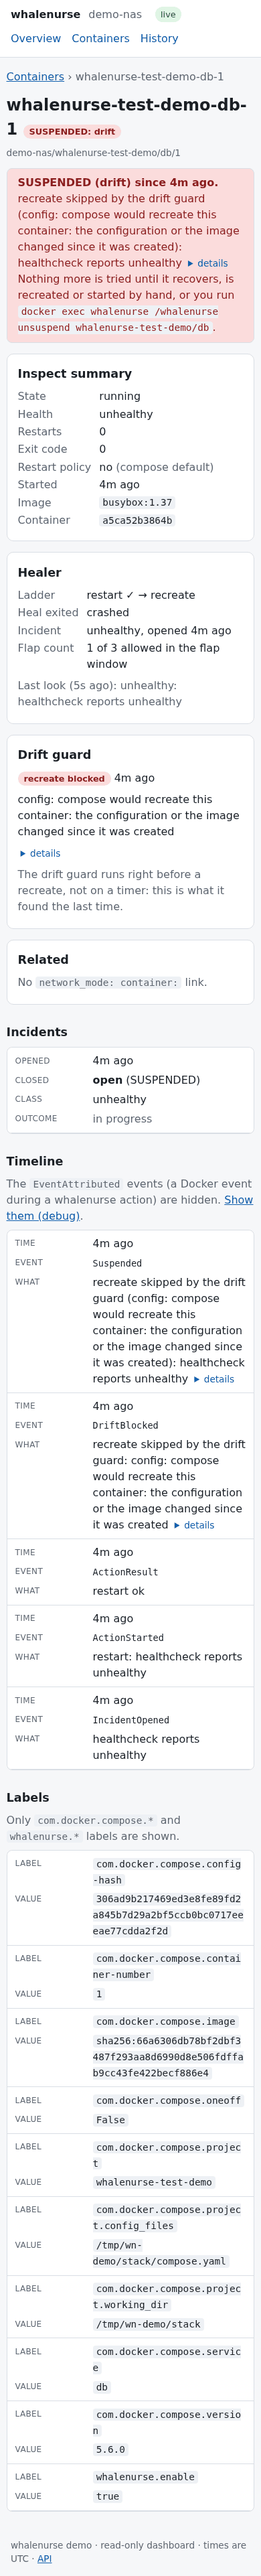
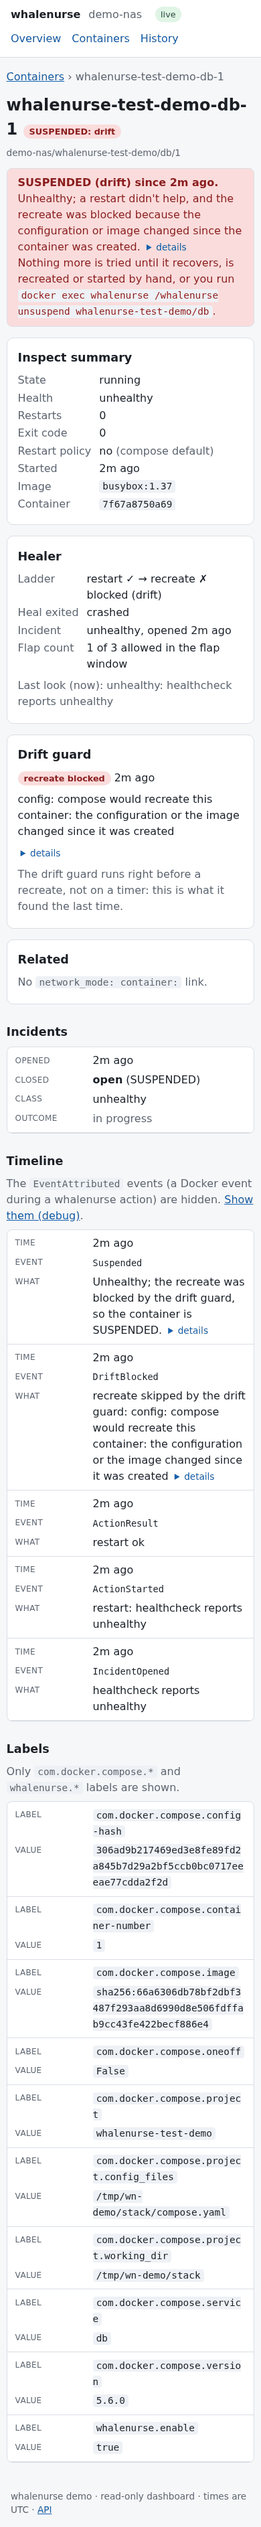
M5 final review round: retake overview, containers, detail-suspended, detail-upgraded and history screenshots; plan v3.9 item 18, CLAUDE.md, m5-notes.md, screenshots README

diff --git a/docs/PLAN.md b/docs/PLAN.md
@@ -1,6 +1,6 @@
 # whalenurse — implementation plan v3.9
 
-Status: **v3.9, approved by the maintainer on 19 Oct 2026** (the M5 review: it is v3.8 plus the M5 decisions below, [m5-notes.md](m5-notes.md), with the maintainer's six answers in items 11 to 16 and the screenshot review's fixes in item 17). v3.8 was approved by the maintainer on 19 Oct 2026 (the M4 review: it is v3.7 plus the M4 findings and decisions below, [m4-notes.md](m4-notes.md), with the maintainer's answers in items 11 to 15). v3.7 was approved by the maintainer on 19 Oct 2026 (the M3 review: it is v3.6 plus the M3 decisions below, [m3-notes.md](m3-notes.md), with the maintainer's four answers, items 13 to 15). v3.6 was approved by the maintainer on 18 Oct 2026 (the M2b review, including item 3 and the decisions of items 9 to 12): v3.5 plus the M2b findings ([m2b-notes.md](m2b-notes.md)); v3.5 was v3.4 plus three M2a verdicts below (the `last_seen` heartbeat, the stricter crash-loop rule, and the shutdown-window rule for containers stopped by the host), which the maintainer approved on 17 Oct 2026. v3.4 was v3.3 plus a split of milestone M2 into M2a and M2b. v3.3 was v3.2 plus the M0b verdicts ([m0b-findings.md](m0b-findings.md) §4), which the maintainer approved on 17 Oct 2026. v3.2 was v3.1 plus the two M1 verdicts ([m1-notes.md](m1-notes.md) decisions 2 and 11), and v3.1 was v3 plus the M0 verdicts ([m0-findings.md](m0-findings.md) §4). Supersedes v3.8. Facts and versions are as of 18 Oct 2026 (16 Oct for the prior-art survey).
+Status: **v3.9, approved by the maintainer on 19 Oct 2026** (the M5 review: it is v3.8 plus the M5 decisions below, [m5-notes.md](m5-notes.md), with the maintainer's six answers in items 11 to 16 and the screenshot review's fixes in items 17 and 18). v3.8 was approved by the maintainer on 19 Oct 2026 (the M4 review: it is v3.7 plus the M4 findings and decisions below, [m4-notes.md](m4-notes.md), with the maintainer's answers in items 11 to 15). v3.7 was approved by the maintainer on 19 Oct 2026 (the M3 review: it is v3.6 plus the M3 decisions below, [m3-notes.md](m3-notes.md), with the maintainer's four answers, items 13 to 15). v3.6 was approved by the maintainer on 18 Oct 2026 (the M2b review, including item 3 and the decisions of items 9 to 12): v3.5 plus the M2b findings ([m2b-notes.md](m2b-notes.md)); v3.5 was v3.4 plus three M2a verdicts below (the `last_seen` heartbeat, the stricter crash-loop rule, and the shutdown-window rule for containers stopped by the host), which the maintainer approved on 17 Oct 2026. v3.4 was v3.3 plus a split of milestone M2 into M2a and M2b. v3.3 was v3.2 plus the M0b verdicts ([m0b-findings.md](m0b-findings.md) §4), which the maintainer approved on 17 Oct 2026. v3.2 was v3.1 plus the two M1 verdicts ([m1-notes.md](m1-notes.md) decisions 2 and 11), and v3.1 was v3 plus the M0 verdicts ([m0-findings.md](m0-findings.md) §4). Supersedes v3.8. Facts and versions are as of 18 Oct 2026 (16 Oct for the prior-art survey).
 Repo: `github.com/jackspiering/whalenurse` (Go module path, GHCR image and binary are all lowercase).
 
 **Changes in v3.9** (from building M5; items 11 to 16 are the maintainer's decisions on its review; evidence, deviations and open questions in [m5-notes.md](m5-notes.md)):
@@ -22,6 +22,8 @@ Repo: `github.com/jackspiering/whalenurse` (Go module path, GHCR image and binar
 16. §3.11 (maintainer decision): **a skipped rung has its own marker.** The engine counts a rung it cannot run (version gate, no compose inputs, a `pull_policy` that forbids the pull) as passed, so the page drew `✓`. The `RungUnavailable` events of the open incident (matched by the `incident` attribute) now give `healer.skipped_rungs` (`rung`, `reason`) in the API, and the pages say "recreate skipped – not available" and "1 of 3 rungs run, 1 skipped (not available)" instead of a tick.
 
 17. §3.11 (maintainer decisions after the screenshot review; evidence in [m5-notes.md](m5-notes.md) and `docs/screenshots/`): **dashboard fixes, no change to the API's contract except two optional fields.** (a) Tables become **cards up to 900 px** (was 640: a table of seven columns needs about 790 px) with each label and its value on one line, and every table sits in its own horizontally scrolling container as a safety net: no page-wide scroll at any width from 320 to 1440. (b) **A pause row links to the containers under its scope** (`/containers?scope=<project[/service]>`), and an event or incident of a container that is gone is plain text: no link leads to a 404. (c) **`EventAttributed` is hidden** in "Latest events", the timelines and History; History has a "Debug (everything)" filter and the detail page a "show them (debug)" link; `?debug=1` shows them. The JSON API still carries every event (a hub follows the cursor); `EventsQuery.HideNoise` and `engine.EventQuery.ExcludeTypes` do it, so the hidden events do not use up the 100 timeline slots. (d) **The final container name**: compose's temporary `<12 hex>_<name>` is stripped wherever a name is shown (API and pages). (e) The Time column does not wrap. (f) **Expiries read "2m left (until 14:32)"** (UTC; another day carries its date; a passed one says "ended 3m ago"). (g) Detail page: "Finished" only for a container that is not running; "Restart policy: no (compose default)"; empty labels are not shown (the JSON keeps them); no Container column in a container's own timeline and incidents; **the parent's and each dependent's state as a badge** under "Related" (new optional fields `state`, `health`, `healer_state` of `RelationDoc`). (h) Rollback: **one command per `<pre>`**, no wrapping (`white-space: pre`, `overflow-x: auto`), **a Copy button per command**, wired by `app.js` (delegated click, `navigator.clipboard` in a secure context, a hidden textarea and `execCommand` otherwise); the buttons exist only with JavaScript; the CSP is unchanged. (i) **The drift finding in plain language** ("compose would recreate this container: the configuration or the image changed since it was created"), compose's own words ("Recreate, Recreated, Starting, Started") under a "details" element, for every event text, the SUSPENDED banner and the drift card. Not changed, by design: host paths in the compose labels (they are `com.docker.compose.*` labels, §3.9) and in the rollback commands.
+
+18. §3.11 (maintainer decisions, the last round of the screenshot review; fixes only): (a) **the Copy button sits beside the code block**, not on top of it (`.cmd` is a flex row: the `<pre>` scrolls, the button stays), so a long command is never covered. (b) **A drift-blocked SUSPENDED reads in plain language**: "Unhealthy; a restart didn't help, and the recreate was blocked because the configuration or image changed since the container was created." in the banner (the restart clause only when a restart ran), the original text under "details"; the `Suspended` row of a timeline, History and the overview is shortened to "Unhealthy; the recreate was blocked by the drift guard, so the container is SUSPENDED." because the `DriftBlocked` row beside it carries the explanation (also in plain words). A finding that is a moved tag says "the image tag moved since the container was created"; one that cannot be verified is shown as it is. (c) **The ladder marks a blocked rung**: "restart ✓ → recreate ✗ blocked (drift)" (the first rung that did not run, when the container is SUSPENDED for drift), and the list says "recreate blocked (drift)". (d) The "Last upgrade during heal" card no longer repeats the raw "…; recreated" line under its badge line (the timeline row keeps it). (e) **A Paused event reads "paused p/web for 2h, until 19:05"** (the Go duration and the ISO time are rewritten; a pause that ends on another day carries its date). (f) **Cards (up to 900 px) leave out the fields that say "none"** (health, incident, cooldown); the table keeps them. All of it is in `internal/web`; the API's documents and events are unchanged.
 
 **Changes in v3.8** (from building M4; evidence and open questions in [m4-notes.md](m4-notes.md)):
 1. §3.7, **`compose pull --policy always <svc>`**, not a bare `pull <svc>`. Upstream check (compose v5.2.0, v5.6.0 and main, `pkg/compose/pull.go`, `cmd/compose/pull.go`): `compose pull` skips an image whose `pull_policy` is `never` or `build` in every release, and `missing`/`if_not_present` when the image is already present (v5.2.0 for every tag; v5.6.0 and later only refresh `latest` and a service with no policy). A skipped pull leaves the digest unchanged and the rung would say "no newer image" for an image it never looked up. `--policy always` (present in v5.2.0 and v5.6.0) overrides the service's policy for the project, so it replaces `missing`, `if_not_present`, the refresh windows and no policy at all; **`never` and `build` are respected, not overridden** (item 14). Nothing else is added (no `--include-deps`): one service. Compose's `up` stays `--pull never --no-build`.

diff --git a/docs/screenshots/README.md b/docs/screenshots/README.md
@@ -1,6 +1,6 @@
 # Dashboard screenshots (M5)
 
-Retaken on 19 Oct 2026 (after the review fixes) from the branch `t3/m5-dashboard`, against a real demo stack (compose project `whalenurse-test-demo`, busybox containers only) managed by a real `whalenurse run` with the dashboard on `127.0.0.1` behind a token. Headless Chromium through Playwright, full page, device scale 1, HTTP Basic with the token as the password (the way a browser sends it). The host is called `demo-nas`; the paths are the demo stack's. Nothing here is personal data. Each image exists as `-light` and `-dark` (`prefers-color-scheme`), at `desktop` (1440×900 viewport) and `phone` (390×844, touch, mobile); the three pages that matter most (`overview`, `containers`, `detail-upgraded`) also at `tablet` (768×1024), because the tables turn into cards up to 900 px.
+Retaken on 19 Oct 2026 (after the last review fixes; `detail-sidecar-*` is from the round before, it shows none of the changed texts) from the branch `t3/m5-dashboard`, against a real demo stack (compose project `whalenurse-test-demo`, busybox containers only) managed by a real `whalenurse run` with the dashboard on `127.0.0.1` behind a token. Headless Chromium through Playwright, full page, device scale 1, HTTP Basic with the token as the password (the way a browser sends it). The host is called `demo-nas`; the paths are the demo stack's. Nothing here is personal data. Each image exists as `-light` and `-dark` (`prefers-color-scheme`), at `desktop` (1440×900 viewport) and `phone` (390×844, touch, mobile); the three pages that matter most (`overview`, `containers`, `detail-upgraded`) also at `tablet` (768×1024), because the tables turn into cards up to 900 px.
 
 The demo state, as the pages show it (names are `whalenurse-test-demo-<service>-1`):
 
@@ -16,11 +16,11 @@ The demo state, as the pages show it (names are `whalenurse-test-demo-<service>-
 | File prefix | What it shows |
 |---|---|
 | `overview-*` | healer status, compose binary and version, the version gate, action budget, container counts, the pause with its expiry, "Needs attention" (`api`, `cache`, `db`) and the latest events |
-| `containers-*` | the watched containers with state, health, healer badges (Incident, PAUSED with "1h 57m left (until 19:05)", SUSPENDED: drift, ok), incident and rung progress, cooldown and flap count. Up to 900 px the table becomes cards with a label and its value on one line |
-| `detail-suspended-*` | `db`: the SUSPENDED banner with the cause and the `unsuspend` command, inspect summary, healer, the drift guard's verdict (blocked, in plain words, the compose output under "details"), incidents, timeline, labels |
+| `containers-*` | the watched containers with state, health, healer badges (Incident, PAUSED with "1h 57m left (until 19:05)", SUSPENDED: drift, ok), incident and rung progress, cooldown and flap count. Up to 900 px the table becomes cards with a label and its value on one line, without the fields that say "none" |
+| `detail-suspended-*` | `db`: the SUSPENDED banner with the cause and the `unsuspend` command, inspect summary, healer, the plain-language SUSPENDED sentence (the raw text under "details"), the ladder with the blocked rung (`recreate ✗ blocked (drift)`), the drift guard's verdict, incidents, a short `Suspended` row next to the `DriftBlocked` row, labels |
 | `detail-sidecar-*` | `app-sidecar`: the parent under "Related", with a badge for its state |
-| `detail-upgraded-*` | `worker`: "Last upgrade during heal" with the old and new image and the two rollback commands (one per line, a Copy button each), the closed incident, the timeline |
-| `history-*` | incidents (two open, one recovered) and the event list with its filter chips |
+| `detail-upgraded-*` | `worker`: "Last upgrade during heal" with the old and new image and the two rollback commands (one per line, the Copy button beside each, never over the text), the closed incident, the timeline |
+| `history-*` | incidents (two open, one recovered) and the event list with its filter chips; the pause reads "for 2h, until 19:05" |
 | `*-tablet-*` | the same pages at 768 px: cards, no horizontal scroll |
 
 Also checked with the same demo state, headless Chromium, light: 27 widths from 320 to 1440 px (including 640/641 and 899/900/901) on 9 pages, none with a page-wide horizontal scroll or an element outside the viewport; every internal link of 27 pages returns 200; the two Copy buttons put exactly the command in the clipboard and do not exist without JavaScript; no console errors or CSP violations; lowest text contrast 5.2:1 (light) and 6.1:1 (dark); no token, user name or `/home` path in any page.

diff --git a/CLAUDE.md b/CLAUDE.md
@@ -135,7 +135,7 @@ Cross-cutting design points that span several packages:
   - **Skipped rungs**: `healer.skipped_rungs` comes from the open incident's `RungUnavailable` events (`incident` attribute); the pages say "skipped – not available", never a tick.
   - Headers on every response: the CSP of `api.CSP` (no inline script or style, no form: filters on the history page are links), `X-Frame-Options: DENY`, `nosniff`, `Referrer-Policy: no-referrer`. Templates must not use `style=`, `on*=` or inline `<script>`; a test greps every page.
   - `internal/web` imports `internal/api` only (a test checks) and renders `api.Service` documents. The detail page's drift status is the guard's **last verdict** from the event log, not a live check.
-  - **Page rules** (plan v3.9 item 17; tests in `internal/web` and `internal/daemon/dashboard_test.go`): a link only where its page exists (`eventRows`/`incidentRows` get the set of known container keys; a Paused/Resumed row links to `/containers?scope=`; `TestEveryLinkOnEveryPageWorks` crawls every link and fails on a non-200); `api.NoiseTypes` (`EventAttributed`) are hidden by `EventsQuery.HideNoise` / `ContainerOpts(key, debug=false)`, never in the JSON API; `finalName` strips compose's `<12 hex>_` prefix in `EventDoc` and `clean`; expiries go through `expiry` ("2m left (until 14:32)"); drift text goes through `message` (plain sentence, raw output under `<details>`); tables are cards up to 900 px (CSS: the label is absolutely positioned, the content flows: do not use grid on `td`, it scatters multi-element cells) and sit in `.tablewrap`; rollback commands are one `<pre>` each with `data-copy` buttons that `app.js` wires (shown only under `.js`). Do not add inline script, style or handlers.
+  - **Page rules** (plan v3.9 item 17; tests in `internal/web` and `internal/daemon/dashboard_test.go`): a link only where its page exists (`eventRows`/`incidentRows` get the set of known container keys; a Paused/Resumed row links to `/containers?scope=`; `TestEveryLinkOnEveryPageWorks` crawls every link and fails on a non-200); `api.NoiseTypes` (`EventAttributed`) are hidden by `EventsQuery.HideNoise` / `ContainerOpts(key, debug=false)`, never in the JSON API; `finalName` strips compose's `<12 hex>_` prefix in `EventDoc` and `clean`; expiries go through `expiry` ("2m left (until 14:32)"); drift text goes through `message` / `suspendedHTML` / `eventText` (plain sentence, raw text under `<details>`; the timeline's `Suspended` row is short because `DriftBlocked` explains; a pause message is reworded to "for 2h, until 19:05"); the ladder marks a blocked rung (`blockedRung`: "recreate ✗ blocked (drift)"); cards hide `td.none`; tables are cards up to 900 px (CSS: the label is absolutely positioned, the content flows: do not use grid on `td`, it scatters multi-element cells) and sit in `.tablewrap`; rollback commands are one `<pre>` each in a flex `.cmd` row with a `data-copy` button beside it (never over the text) that `app.js` wires (shown only under `.js`). Do not add inline script, style or handlers.
   - Daemon side: `daemon.view` (the last list, plus per key the last inspect and decision) is written by the loop and read by HTTP goroutines under an `RWMutex`; the loop's own `idx` stays single-goroutine. `daemon.NewAPI` wires the service; `engine.Engine.View()` is the engine's snapshot of every key.
   - `/metrics` is hand-written Prometheus text, only with `WHALENURSE_METRICS=true`, behind the token.
   - Integration test: `test/integration/dashboard_test.go` runs the image with the dashboard published on `127.0.0.1:<random port>`, with and without a token.

diff --git a/docs/m5-notes.md b/docs/m5-notes.md
@@ -62,6 +62,17 @@ The first screenshots (`docs/screenshots/`, taken from a real demo stack) showed
 
 Item 10 (host paths) was left as it is.
 
+### The last round (plan v3.9 item 18)
+
+1. **Copy button**: it was absolutely positioned over the end of the `<pre>` and covered text on long lines. `.cmd` is now a flex row: the `<pre>` takes the room and scrolls, the button sits beside it. A check in the audit script measures that no button overlaps its code (0 on every page, all sizes).
+2. **Plain SUSPENDED text** (banner, and the `Suspended` row): built from the engine's message `recreate skipped by the drift guard (<finding>): <why the incident opened>` by `suspendedText`; the finding is mapped to words (`config:` findings and `config --hash` mismatches to "the configuration or image changed since the container was created", a moved tag to "the image tag moved ...", anything else, such as "can't verify", is shown as written). The restart clause is added only where the page knows a restart ran (the banner: the ladder starts with `restart` and one rung ran). The timeline row says only that the recreate was blocked by the drift guard, because the `DriftBlocked` row next to it has the explanation; both keep the raw text under "details". A Suspended message that is not a drift block (the ladder, flapping) is not touched. The parsing splits at the last "): ", so a reason that itself contains "): " would be cut oddly; it only affects wording.
+3. **Blocked rung**: `restart ✓ → recreate ✗ blocked (drift)`; the rung is the first one that did not run when the container is SUSPENDED for drift (the engine does not count a blocked rung as run, so this is the rung the guard stopped).
+4. **Upgrade card**: the raw message line is gone.
+5. **Paused event**: "for 2h, until 19:05" (the date is added when it is another day).
+6. **Cards**: `td.none` cells (health, incident, cooldown) are hidden up to 900 px and shown in the table above it; checked in Chromium at 390, 768, 900 (0 of 12 visible) and 901, 1440 (12 of 12).
+
+`TestADriftSuspensionReadsInPlainLanguage` runs a real drift block (the compose fake) through the daemon, the store and the pages and checks the banner, the ladder, the list and both timeline rows; `TestFriendlyTextsAndCards` and the unit tests in `internal/web` cover the rest. The history page and the other shots that show these texts were retaken too (overview, containers, detail-suspended, detail-upgraded, history, in all sizes and themes); `detail-sidecar-*` shows none of them and was left.
+
 ## Not verified
 
 - **By a person.** The pages were checked by Playwright with headless Chromium (screenshots, an audit script for overflow, contrast, empty cells and secrets, link following, the copy buttons, a width sweep), and I looked at the screenshots. Nobody has used them in a real browser on a real phone.
